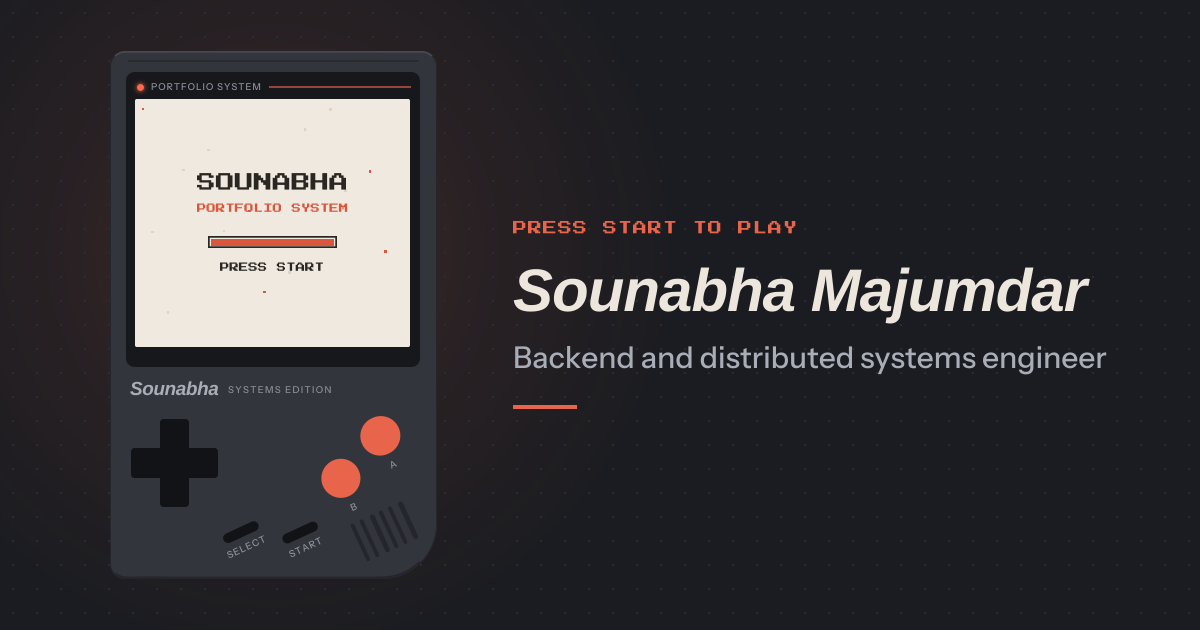
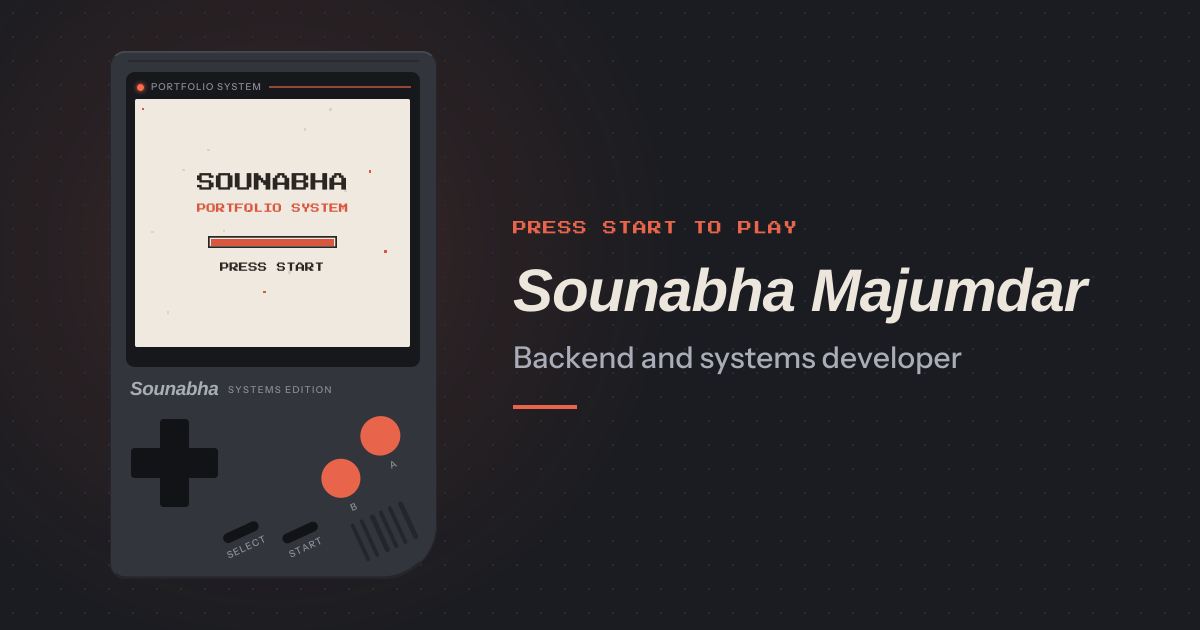
Role is now "Backend and systems developer"
Updates the share-card titles, the screen-reader heading and the share
image alt text, and re-renders the share image with the new role.

Changed region(s): [[0.5858, 0.5429, 0.925, 0.6032]]

diff --git a/content.ts b/content.ts
@@ -9,7 +9,7 @@ export const profile = {
   shortName: "Sounabha",
   education:
     "B.Tech in Computer Engineering, K.J. Somaiya School of Engineering, Vidyavihar, Mumbai, class of 2028",
-  role: "Backend and distributed systems engineer",
+  role: "Backend and systems developer",
   oneLiner: "Backend and systems developer, AI/ML enthusiast, competitive programmer.",
   email: "sounabha07@gmail.com",
   github: "https://github.com/Sounabha07",
